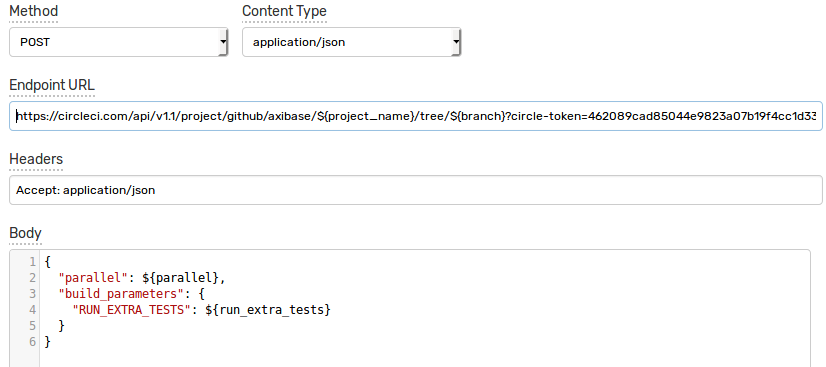
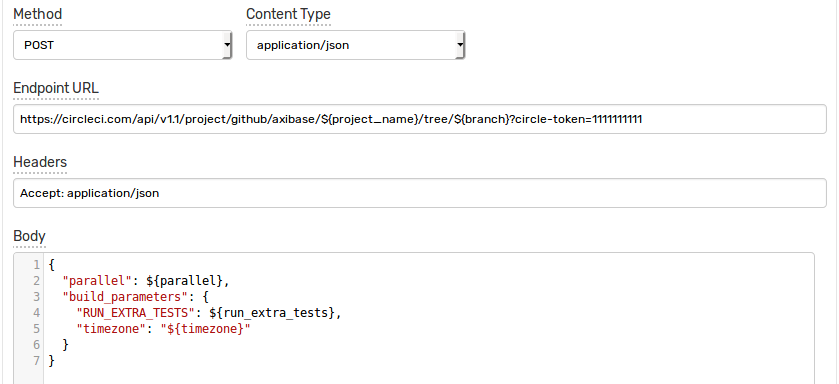
Circle CI integration (#327)
* added timezone parameter

* Update custom-circleci.md

diff --git a/rule-engine/notifications/custom-circleci.md b/rule-engine/notifications/custom-circleci.md
@@ -37,12 +37,15 @@ The web notification can be configured to send a JSON document to the Circle CI 
 {
   "parallel": ${parallel},
   "build_parameters": { 
-    "RUN_EXTRA_TESTS": ${run_extra_tests}
+    "RUN_EXTRA_TESTS": ${run_extra_tests},
+    "timezone": "${timezone}"
   }
 }
 ```
 
-You can leave the `Body` field empty if you don't need to customize the build settings.
+Make sure that you enclose fields with double quotes, if necessary.
+
+You can leave the `Body` field empty if you don't need to pass custom build parameters.
 
 ![](images/circle_endpoint.png)
 
@@ -75,7 +78,8 @@ Specify the same settings for **Open** and **Repeat** triggers:
 | branch | master |
 | parallel | 4 |
 | project_name | atsd-api-java |
-| run_extra_tests  | true |
+| run_extra_tests  | false |
+| timezone  | Etc/UTC |
 
 ![](images/circle_rule_notification.png)
 
@@ -89,7 +93,8 @@ When the notification is executed, all placeholders in the request URL and the p
 {
   "parallel": 4,
   "build_parameters": { 
-    "RUN_EXTRA_TESTS": true
+    "RUN_EXTRA_TESTS": false,
+    "timezone": "Etc/UTC"
   }
 }
 ```
